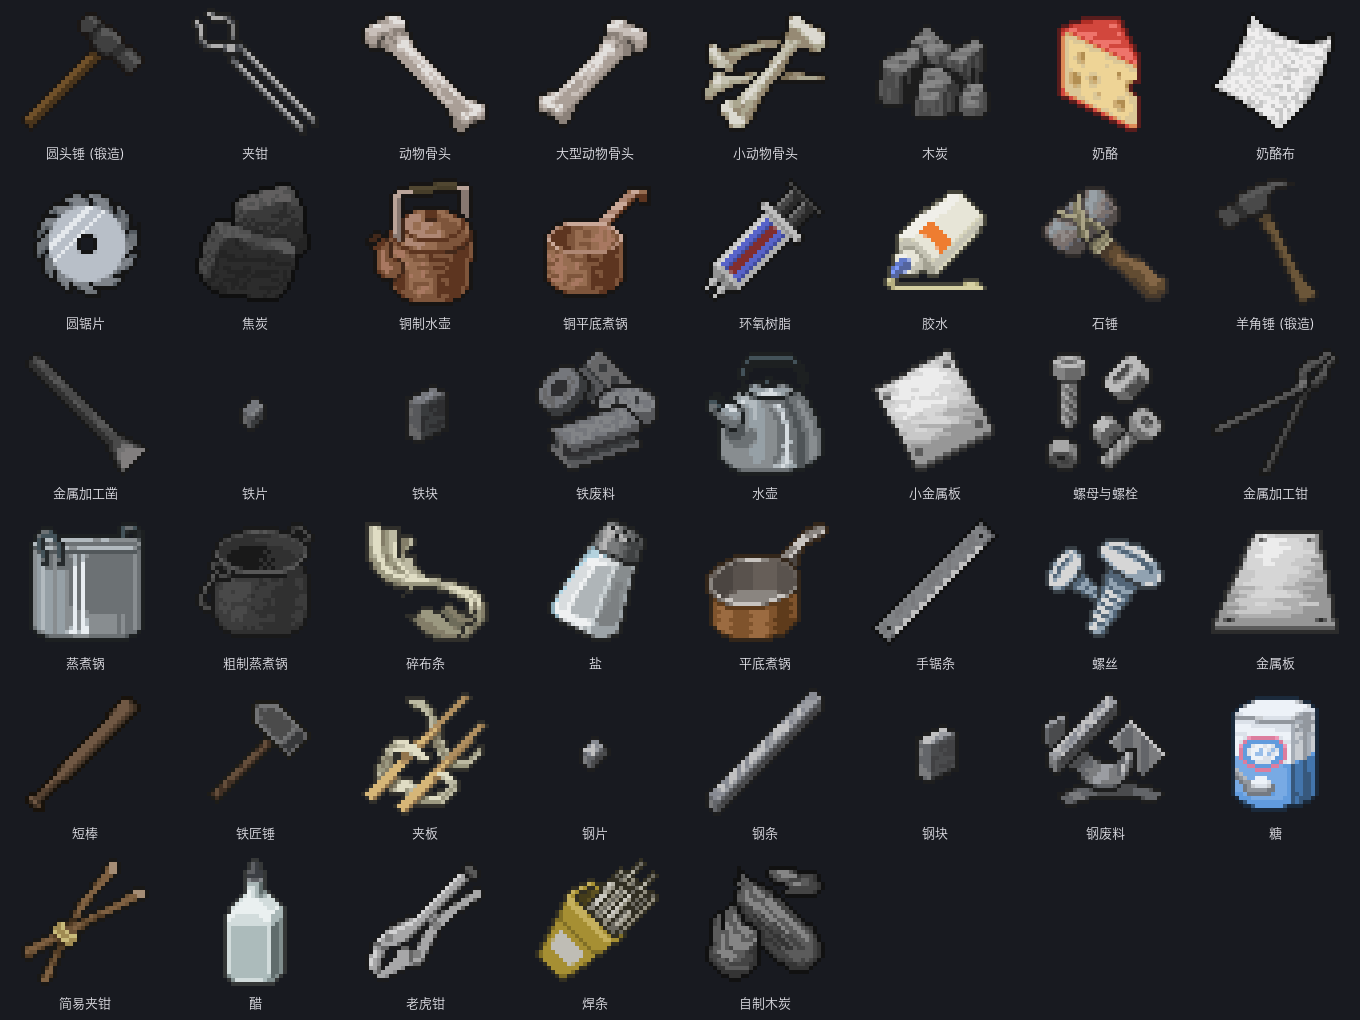
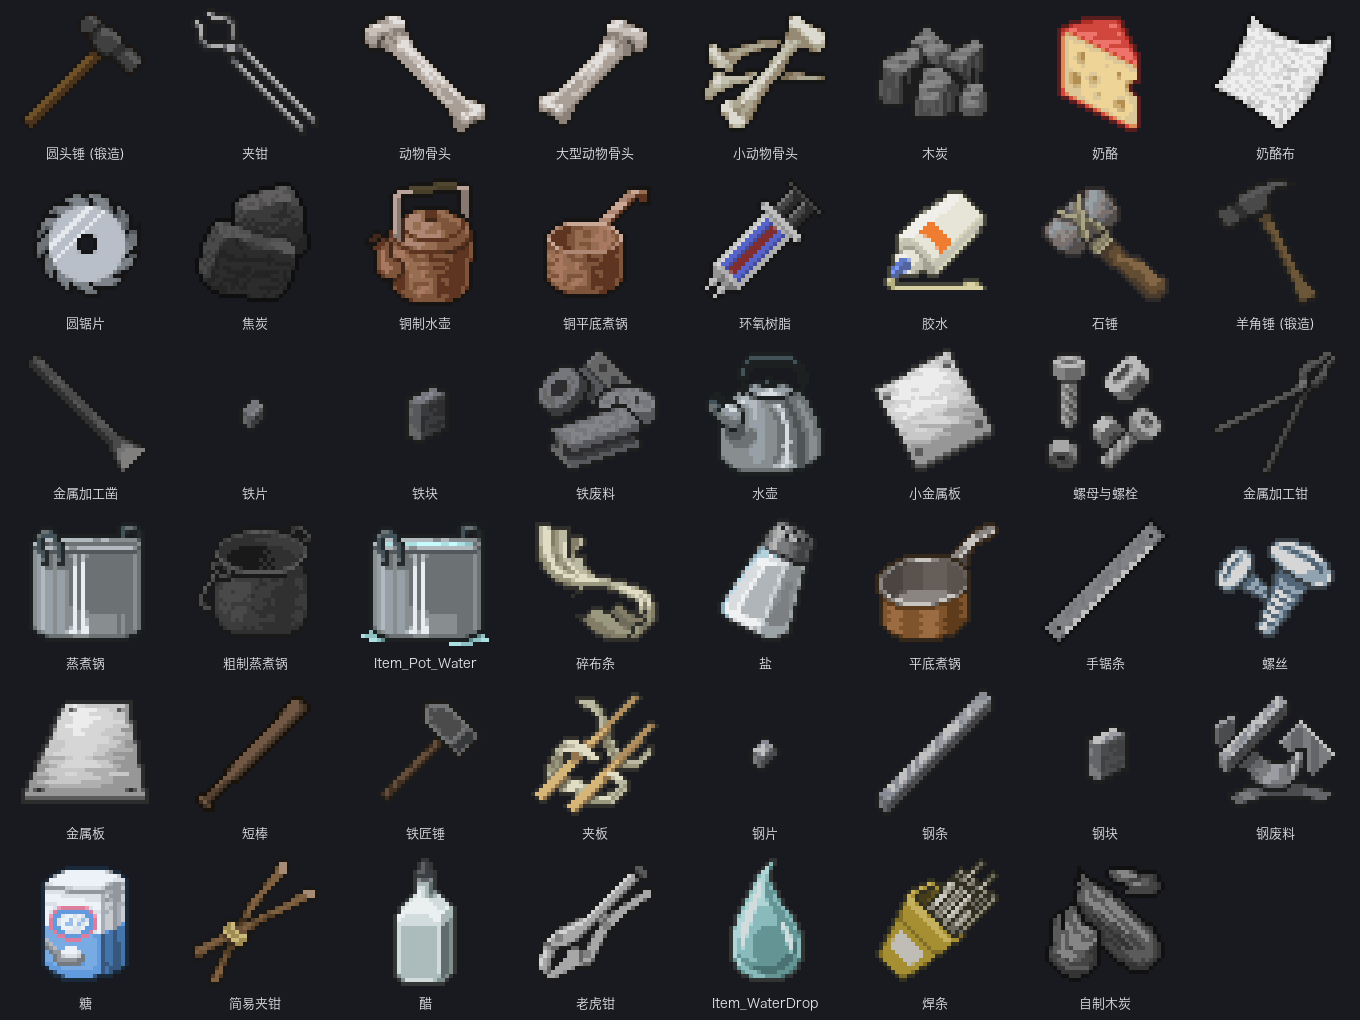
feat(pz_atlas): 增量导出(合并已有 manifest)并补两个水相关图标
- export() 支持传入已有 manifest,避免二次导出冲掉目录里之前的条目
- 补导 Item_Pot_Water(蒸煮锅+水,来自 Base.WaterPotPasta/Rice 的图标)
  与 Item_WaterDrop(水滴,来自调试物品 Base.TestDebugWater),
  供配图表达'1 升水'这一项(水是流体,本来没有物品图标)

diff --git a/bin2_b42/tools/pz_atlas/extract_item_icons.py b/bin2_b42/tools/pz_atlas/extract_item_icons.py
@@ -183,11 +183,12 @@ def items_from_recipes(recipe_files, tags):
 
 # ---------------------------------------------------------------- 导出
 
-def export(found, out_dir, scale):
+def export(found, out_dir, scale, previous=None):
+    """previous: 已有的 manifest(增量导出时保留上次导出的条目,不把目录里的记录冲掉)"""
     from PIL import Image
     os.makedirs(out_dir, exist_ok=True)
     pages = {}
-    manifest = {}
+    manifest = dict(previous or {})
     for sprite, (pack, rect) in sorted(found.items()):
         x, y, w, h, off_x, off_y, orig_w, orig_h, page_offset = rect
         key = (pack, page_offset)
@@ -274,7 +275,14 @@ def main():
         sprites.add(icon if icon.startswith("Item_") else f"Item_{icon}")
 
     found = lookup_sprites(args.game, args.packs, sprites)
-    manifest = export(found, args.out, args.scale)
+    manifest_path = os.path.join(args.out, "manifest.json")
+    previous = {}
+    if os.path.exists(manifest_path):            # 增量导出:保留目录里已有的条目
+        try:
+            previous = json.load(open(manifest_path, encoding="utf-8"))
+        except Exception:
+            previous = {}
+    manifest = export(found, args.out, args.scale, previous)
     for full in sorted(full_types):
         icon = icons.get(full)
         if not icon:
@@ -282,7 +290,7 @@ def main():
         sprite = icon if icon.startswith("Item_") else f"Item_{icon}"
         if sprite in manifest:
             manifest[sprite]["items"].append({"fullType": full, "cn": names.get(full, "")})
-    json.dump(manifest, open(os.path.join(args.out, "manifest.json"), "w", encoding="utf-8"),
+    json.dump(manifest, open(manifest_path, "w", encoding="utf-8"),
               ensure_ascii=False, indent=1)
 
     print(f"请求 {len(sprites)} 个图标,导出 {len(manifest)} 个 → {args.out}")
